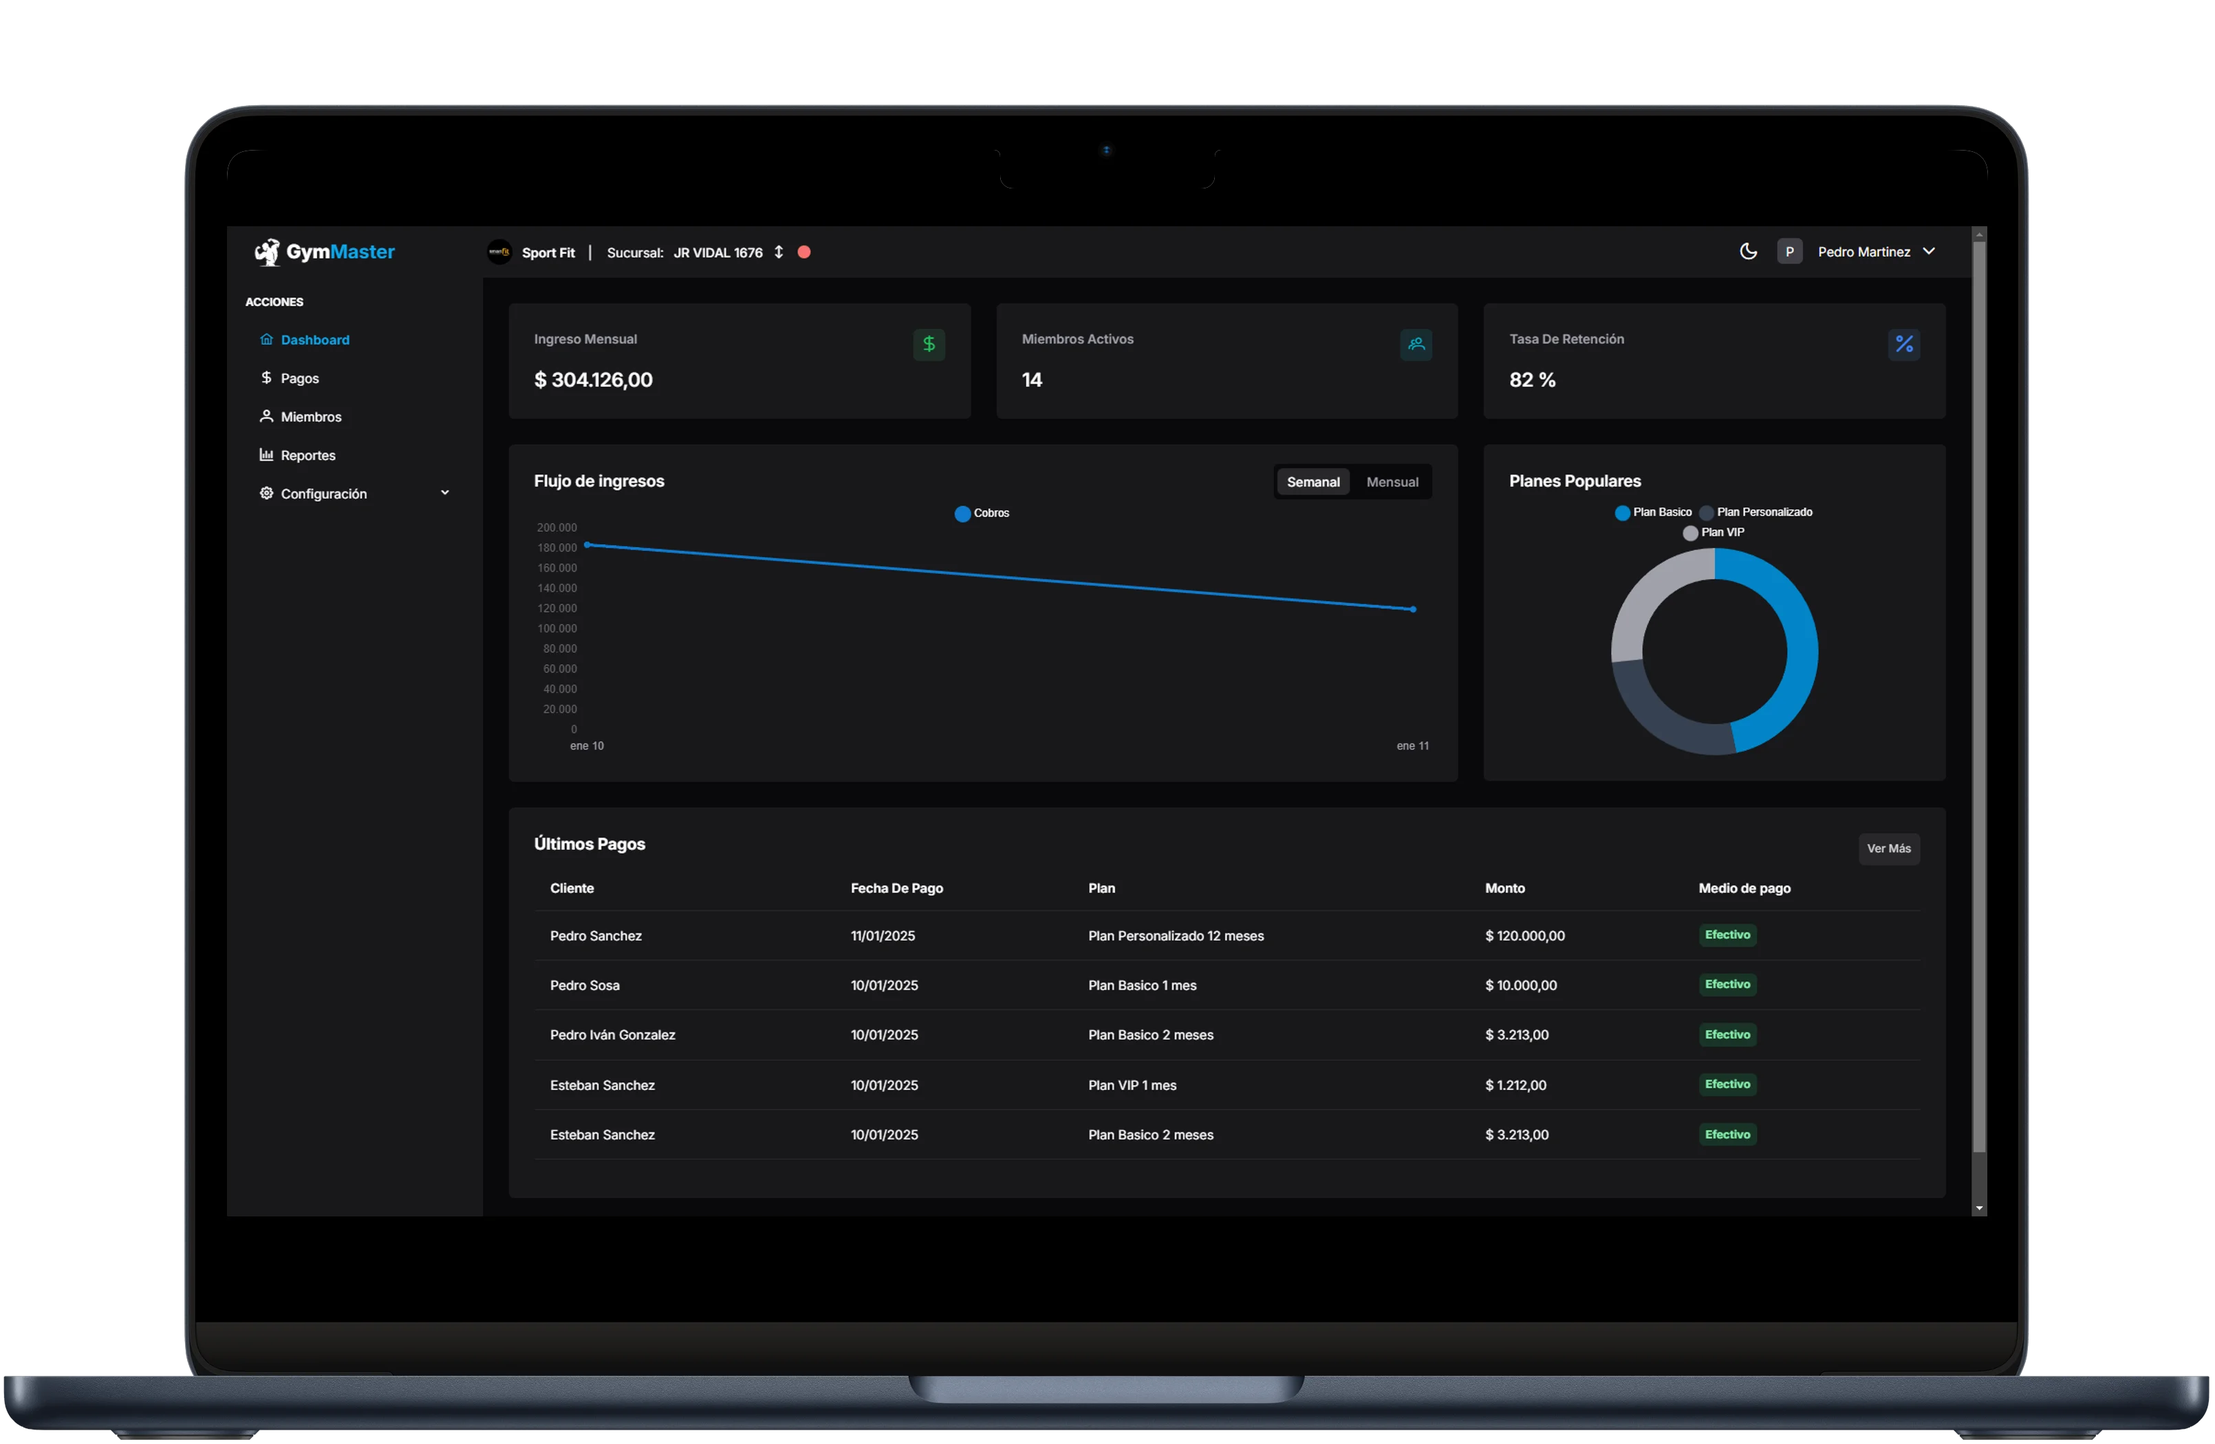
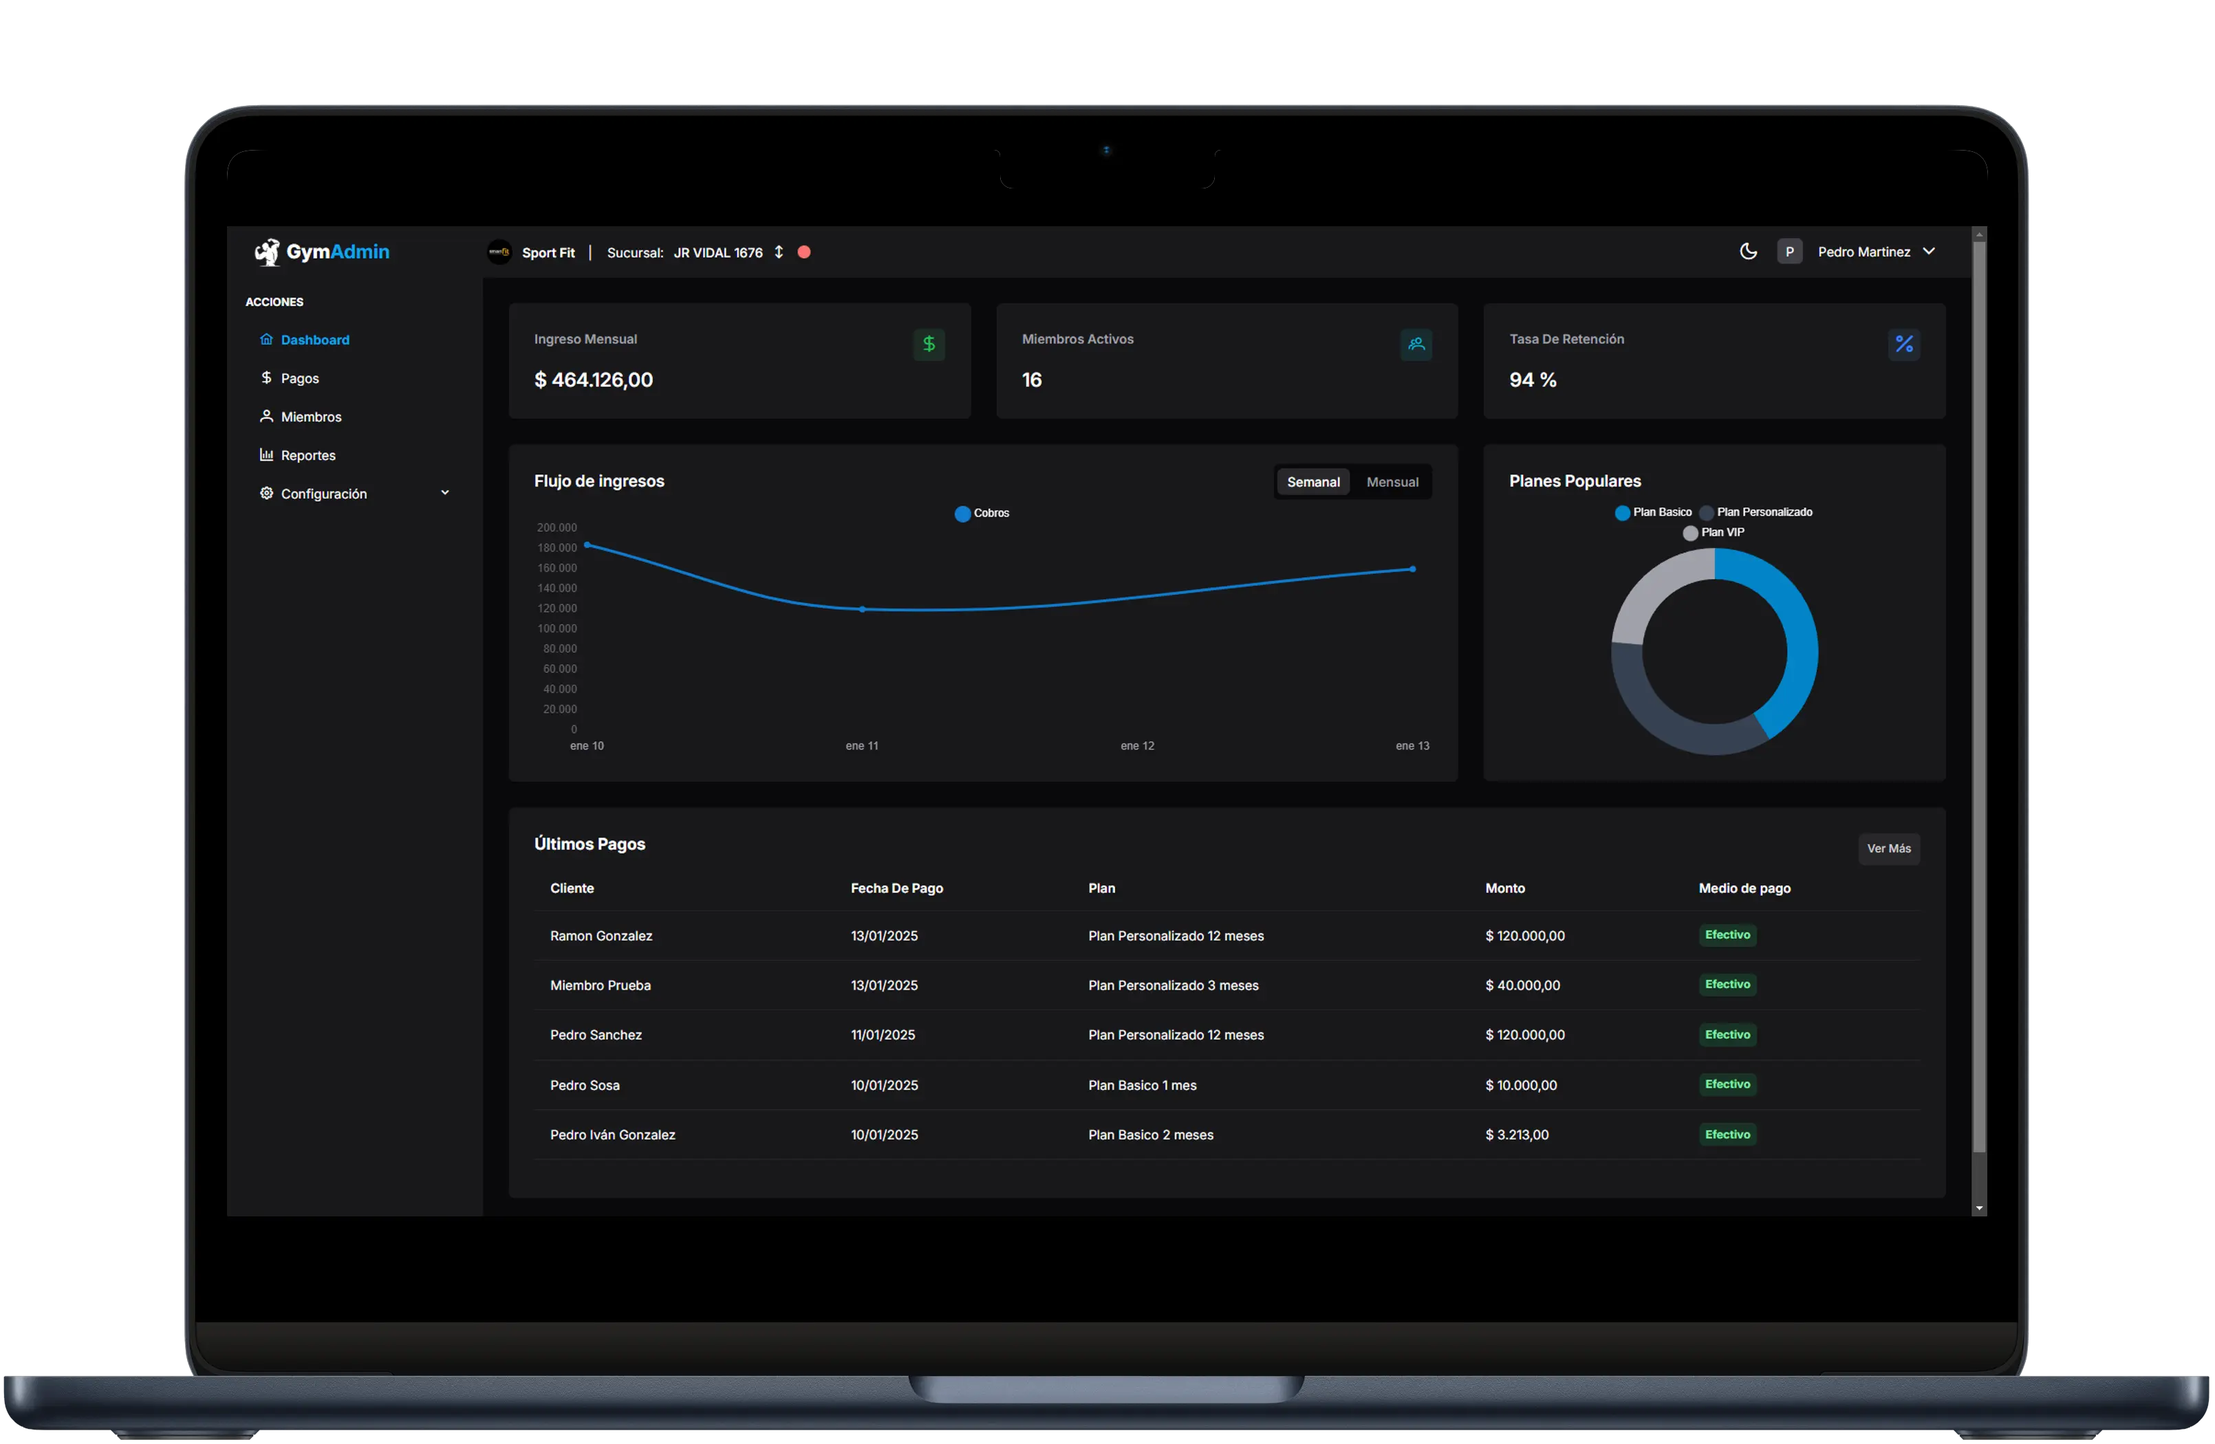
Roles y permisos agregados

diff --git a/src/router/index.js b/src/router/index.js
@@ -1,6 +1,8 @@
 import AppLayout from '@/layout/AppLayout.vue';
+import pb from '@/service/pocketbase';
+import { useIndexStore } from '@/storage';
+import { hasPermission } from '@/utils/hasPermission';
 import { createRouter, createWebHistory } from 'vue-router';
-
 const router = createRouter({
     history: createWebHistory(),
     routes: [
@@ -16,22 +18,34 @@ const router = createRouter({
                 {
                     path: '/miembros',
                     name: 'miembros',
-                    component: () => import('@/views/members/Members.vue')
+                    component: () => import('@/views/members/Members.vue'),
+                    meta: {
+                        requiredPermission: 'members.index'
+                    }
                 },
                 {
                     path: '/usuarios',
                     name: 'usuarios',
-                    component: () => import('@/views/pages/Users.vue')
+                    component: () => import('@/views/pages/Users.vue'),
+                    meta: {
+                        requiredPermission: 'users.index'
+                    }
                 },
                 {
                     path: '/pagos',
                     name: 'pagos',
-                    component: () => import('@/views/pages/Payments.vue')
+                    component: () => import('@/views/pages/Payments.vue'),
+                    meta: {
+                        requiredPermission: 'payments.index'
+                    }
                 },
                 {
                     path: '/reportes',
                     name: 'reportes',
-                    component: () => import('@/views/pages/Reports.vue')
+                    component: () => import('@/views/pages/Reports.vue'),
+                    meta: {
+                        requiredPermission: 'reports.index'
+                    }
                 },
                 {
                     path: '/planes',
@@ -52,13 +66,19 @@ const router = createRouter({
                             sensitive: true,
                             component: () => import('@/views/pages/MembershipsForm.vue')
                         }
-                    ]
+                    ],
+                    meta: {
+                        requiredPermission: 'plan.index'
+                    }
                 },
                 {
                     path: '/configuracion',
-                    name: 'configuracion',
-                    component: () => import('@/views/pages/Settings.vue'),
                     children: [
+                        {
+                            path: '',
+                            name: 'configuracion',
+                            component: () => import('@/views/pages/Settings.vue')
+                        },
                         {
                             path: 'agregar-rol',
                             name: 'agregar-rol',
@@ -70,14 +90,18 @@ const router = createRouter({
                             sensitive: true,
                             component: () => import('@/views/pages/RoleForm.vue')
                         }
-                    ]
+                    ],
+                    meta: {
+                        requiredPermission: 'settings.index'
+                    }
                 },
                 {
                     path: '/cambiar-plan',
                     name: 'cambiar-plan',
                     component: () => import('@/views/pages/ChangePlan.vue')
                 }
-            ]
+            ],
+            meta: { requiresAuth: true }
         },
         {
             path: '/landing',
@@ -122,5 +146,41 @@ const router = createRouter({
         }
     ]
 });
+router.beforeEach(async (to, from, next) => {
+    const store = useIndexStore();
+    //Si el usuario no esta autenticado y la ruta requiere autenticacion
+    if (to.meta.requiresAuth && !pb.authStore.isValid) {
+        return next({ name: 'login' });
+    }
+    // Obtener informacion del usuario
+    if (!store.userLogged) {
+        await getUserLogged();
+    }
+    if (to.meta.requiredPermission) {
+        const hasRequired = hasPermission(
+            store.userLogged?.expand?.role?.expand?.permisos,
+            to.meta.requiredPermission
+        );
 
+        if (!hasRequired) {
+            return next({ name: 'accessDenied' });
+        }
+    }
+
+    next();
+});
+const getUserLogged = async () => {
+    try {
+        const store = useIndexStore();
+        const user = await pb.collection('users').getOne(pb.authStore.record.id, {
+            expand: 'role, role.permisos',
+            fields: '*, expand.role.expand.permisos.permiso, expand.role.nombre, expand.role.id'
+        });
+
+        // guardando informacion de usuario
+        store.setUserLogged(user);
+    } catch (error) {
+        console.log(error);
+    }
+};
 export default router;

diff --git a/src/views/pages/auth/Access.vue b/src/views/pages/auth/Access.vue
@@ -4,19 +4,53 @@ import FloatingConfigurator from '@/components/FloatingConfigurator.vue';
 
 <template>
     <FloatingConfigurator />
-    <div class="bg-surface-50 dark:bg-surface-950 flex items-center justify-center min-h-screen min-w-[100vw] overflow-hidden">
+    <div
+        class="bg-surface-50 dark:bg-surface-950 flex items-center justify-center min-h-screen min-w-[100vw] overflow-hidden"
+    >
         <div class="flex flex-col items-center justify-center">
-            <div style="border-radius: 56px; padding: 0.3rem; background: linear-gradient(180deg, rgba(247, 149, 48, 0.4) 10%, rgba(247, 149, 48, 0) 30%)">
-                <div class="w-full bg-surface-0 dark:bg-surface-900 py-20 px-8 sm:px-20 flex flex-col items-center" style="border-radius: 53px">
+            <div
+                style="
+                    border-radius: 56px;
+                    padding: 0.3rem;
+                    background: linear-gradient(
+                        180deg,
+                        rgba(247, 149, 48, 0.4) 10%,
+                        rgba(247, 149, 48, 0) 30%
+                    );
+                "
+            >
+                <div
+                    class="w-full bg-surface-0 dark:bg-surface-900 py-20 px-8 sm:px-20 flex flex-col items-center"
+                    style="border-radius: 53px"
+                >
                     <div class="gap-4 flex flex-col items-center">
-                        <div class="flex justify-center items-center border-2 border-orange-500 rounded-full" style="width: 3.2rem; height: 3.2rem">
+                        <div
+                            class="flex justify-center items-center border-2 border-orange-500 rounded-full"
+                            style="width: 3.2rem; height: 3.2rem"
+                        >
                             <i class="text-orange-500 pi pi-fw pi-lock !text-2xl"></i>
                         </div>
-                        <h1 class="text-surface-900 dark:text-surface-0 font-bold text-4xl lg:text-5xl mb-2">Access Denied</h1>
-                        <span class="text-muted-color mb-8">You do not have the necessary permisions. Please contact admins.</span>
-                        <img src="/demo/images/access/asset-access.svg" alt="Access denied" class="mb-8" width="80%" />
+                        <h1
+                            class="text-surface-900 dark:text-surface-0 font-bold text-4xl lg:text-5xl mb-2"
+                        >
+                            Acceso Denegado
+                        </h1>
+                        <span class="text-muted-color mb-8"
+                            >No posees los permisos necesarios para realizar esta acción.</span
+                        >
+                        <img
+                            src="/demo/images/access/asset-access.svg"
+                            alt="Access denied"
+                            class="mb-8"
+                            width="80%"
+                        />
                         <div class="col-span-12 mt-8 text-center">
-                            <Button as="router-link" label="Go to Dashboard" to="/" severity="warn" />
+                            <Button
+                                as="router-link"
+                                label="Volver al Inicio"
+                                to="/"
+                                severity="warn"
+                            />
                         </div>
                     </div>
                 </div>

diff --git a/src/layout/AppTopbar.vue b/src/layout/AppTopbar.vue
@@ -14,17 +14,6 @@ const router = useRouter();
 const { toggleDarkMode, isDarkTheme } = useLayout();
 
 onMounted(async () => {
-    // Verificar autenticación del usuario
-    if (!pb.authStore.isValid) {
-        router.push({ name: 'login' });
-        return; // Detener ejecución si no está autenticado
-    }
-
-    // Obtener usuario logueado si no está cargado
-    if (!store.userLogged) {
-        await getUserLogged();
-    }
-
     // Obtener gimnasio actual si no está definido
     if (!store.currentGym) {
         await getCurrentGym(store.userLogged.gimnasio_id);
@@ -37,25 +26,6 @@ const toggle = (event) => {
 
 const toggleSucursales = (event) => {
     menuSucursales.value.toggle(event);
-};
-
-const getUserLogged = async () => {
-    try {
-        loading.value = true;
-
-        const user = await pb.collection('users').getOne(pb.authStore.record.id, {
-            expand: 'role, role.permisos',
-            fields: '*, expand.role.expand.permisos.permiso, expand.role.nombre, expand.role.id'
-        });
-
-        // guardando informacion de usuario
-        store.setUserLogged(user);
-    } catch (error) {
-        router.push({ name: 'login' });
-        console.log(error);
-    } finally {
-        loading.value = false;
-    }
 };
 
 const getCurrentGym = async (id) => {
@@ -118,7 +88,7 @@ const logout = () => {
                     width="35px"
                 />
 
-                <p class="font-extrabold">Gym<span class="font-bold text-primary">Master</span></p>
+                <p class="font-extrabold">Gym<span class="font-bold text-primary">Admin</span></p>
             </router-link>
         </div>
         <div class="flex items-center gap-2">

diff --git a/src/components/payments/PaymentList.vue b/src/components/payments/PaymentList.vue
@@ -55,11 +55,6 @@
                         severity="secondary"
                         variant="outlined"
                         rounded
-                        v-if="
-                            hasPermission(
-                                store.userLogged?.expand.role.expand.permisos,
-                                'payments.details'
-                        )"
                         @click="$emit('viewPayment', data)"
                         v-tooltip.top="'Ver Detalle'"
                         size="large"
@@ -73,8 +68,6 @@
 import pb from '@/service/pocketbase.js';
 import formatCurrency from '@/utils/formatCurrency';
 import dayjs from 'dayjs/esm';
-import { hasPermission } from '@/utils/hasPermission';
-import {useIndexStore} from '@/storage';
 import { useToast } from 'primevue/usetoast';
 import { defineExpose, onMounted, ref } from 'vue';
 const payments = ref([]);
@@ -83,7 +76,6 @@ const loading = ref(false);
 const totalRecords = ref(0);
 const rowsPerPage = ref(10); // tamaño de la tabla
 const toast = useToast();
-const store = useIndexStore();
 onMounted(() => getPayments({ first: first.value, rows: rowsPerPage.value }));
 
 const getPayments = async (event) => {

diff --git a/src/components/landing/FooterWidget.vue b/src/components/landing/FooterWidget.vue
@@ -7,7 +7,7 @@
                 >
                     <img src="/src/assets/img/logo-white.png" alt="logo" width="70px" />
                     <p class="font-extrabold text-white">
-                        Gym<span class="font-bold text-primary text-lg">Master</span>
+                        Gym<span class="font-bold text-primary text-lg">Admin</span>
                     </p>
                 </a>
             </div>
@@ -46,7 +46,7 @@
         <div
             class="flex justify-between flex-col sm:flex-row gap-3 items-center sm:mb-2 mt-4 sm:mt-7 text-gray-300"
         >
-            <p class="text-sm sm:text-base">© 2024 GymMaster. Todos los derechos reservados</p>
+            <p class="text-sm sm:text-base">© 2024 GymAdmin. Todos los derechos reservados</p>
             <div class="flex gap-4">
                 <a href="https://www.facebook.com/" target="_blank">
                     <i class="pi pi-facebook sm:!text-lg"></i>

diff --git a/src/components/landing/TopbarWidget.vue b/src/components/landing/TopbarWidget.vue
@@ -25,7 +25,7 @@ const visible = ref(false);
             <router-link to="/" class="flex items-center layout-topbar-logo" style="gap: 0.2rem">
                 <img src="/src/assets/img/logo-white.png" alt="logo" width="35px" />
                 <p class="font-extrabold text-white">
-                    Gym<span class="text-lg font-bold text-primary">Master</span>
+                    Gym<span class="text-lg font-bold text-primary">Admin</span>
                 </p>
             </router-link>
         </div>

diff --git a/index.html b/index.html
@@ -4,7 +4,7 @@
         <meta charset="UTF-8" />
         <link rel="icon" href="/src/assets/img/logo-black.png" />
         <meta name="viewport" content="width=device-width, initial-scale=1.0" />
-        <title>GymMaster | Coronel Sistemas</title>
+        <title>GymAdmin | Coronel Sistemas</title>
         <script type="module" src="https://cdn.jsdelivr.net/npm/ldrs/dist/auto/bouncy.js"></script>
         <script src="https://unpkg.com/aos@next/dist/aos.js"></script>
         <script>

diff --git a/src/views/pages/auth/Login.vue b/src/views/pages/auth/Login.vue
@@ -102,7 +102,7 @@ const googleLogin = async () => {
                 "
             >
                 <div
-                    class="w-full px-8 pt-16 pb-12 bg-surface-0 dark:bg-surface-900 sm:px-20"
+                    class="w-full px-20 pt-16 pb-12 bg-surface-0 dark:bg-surface-900"
                     style="border-radius: 53px"
                 >
                     <div class="mb-8 text-center">

diff --git a/src/views/pages/auth/Register.vue b/src/views/pages/auth/Register.vue
@@ -77,7 +77,7 @@ const googleCallback = (res) => {
                 "
             >
                 <div
-                    class="w-full px-8 pt-16 pb-12 bg-surface-0 dark:bg-surface-900 sm:px-20"
+                    class="w-full px-20 pt-16 pb-12 bg-surface-0 dark:bg-surface-900"
                     style="border-radius: 53px"
                 >
                     <div class="mb-8 text-center">

diff --git a/src/main.js b/src/main.js
@@ -21,8 +21,8 @@ const app = createApp(App);
 const pinia = createPinia();
 
 app.use(vue3GoogleLogin, googleOpc);
-app.use(router);
 app.use(pinia);
+app.use(router);
 app.use(PrimeVue, {
     theme: {
         preset: Aura,

diff --git a/src/layout/AppFooter.vue b/src/layout/AppFooter.vue
@@ -2,7 +2,7 @@
 
 <template>
     <div class="layout-footer">
-        GymMaster -
+        GymAdmin -
         <span class="font-bold text-primary hover:underline"> © Coronel Sistemas </span>
     </div>
 </template>
